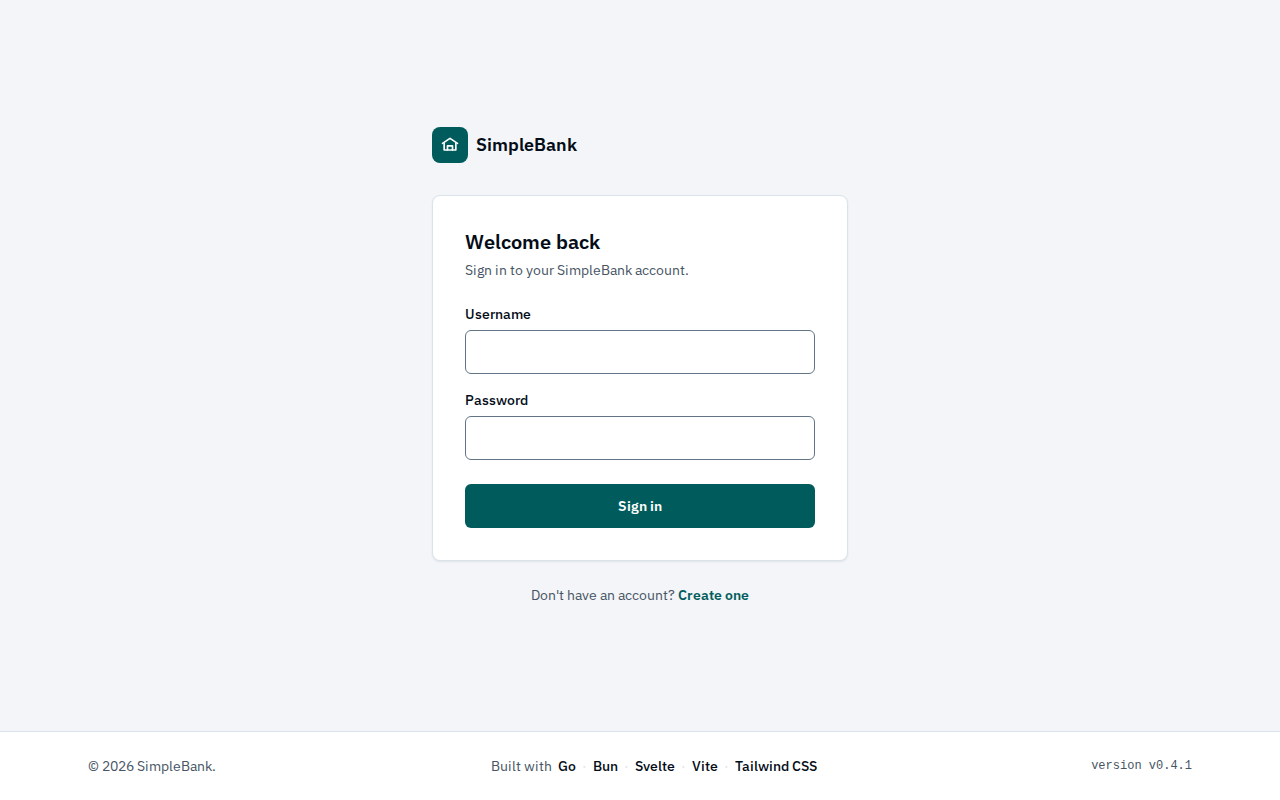
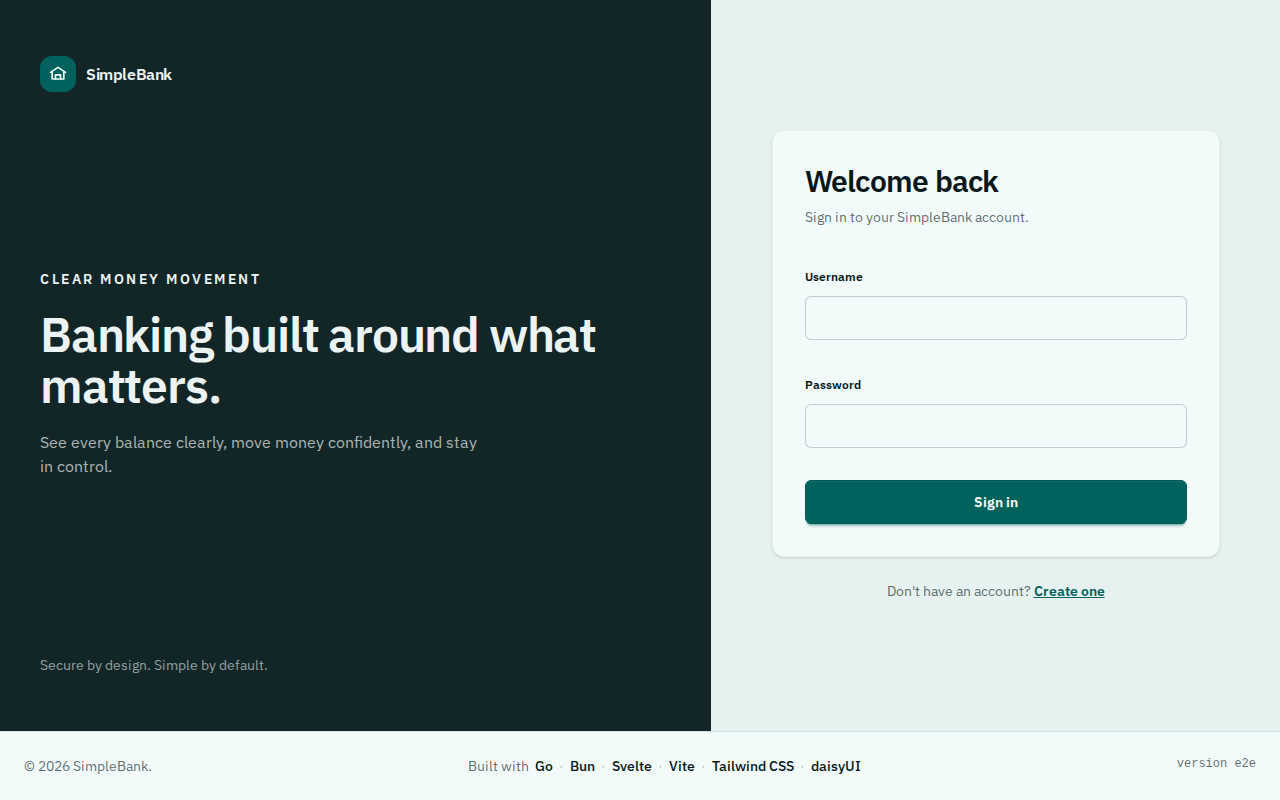
docs: refresh frontend guides and screenshots

diff --git a/docs/README.md b/docs/README.md
@@ -8,8 +8,9 @@ implementation plans as historical context for the work they describe.
 
 - [Project README](../README.md): setup, commands, configuration, API, and
   current architecture.
-- [Frontend README](../frontend/README.md): local UI development, build and
-  embedding behavior, and frontend verification.
+- [Frontend README](../frontend/README.md): Svelte, Tailwind CSS, and daisyUI
+  architecture; custom light/dark themes; local UI development; build and
+  embedding behavior; and frontend verification.
 - [Security guide](security.md): implemented controls, production deployment
   checklist, credential migration impact, and known limitations.
 
@@ -22,6 +23,11 @@ The project currently targets Go 1.27 and uses its standard-library `uuid`
 package. Exact Go, Bun, and development-tool versions are pinned in
 [`mise.toml`](../mise.toml) and checksummed in [`mise.lock`](../mise.lock); run
 `mise install` to install them.
+
+The web UI targets Svelte 5, TypeScript 6, Tailwind CSS 4, and daisyUI 5. The
+frontend defines only the custom `simplebank-light` and `simplebank-dark`
+themes, applies the selected theme before Svelte mounts, and stores an explicit
+selection in browser local storage.
 
 ## Architecture Decisions
 

diff --git a/README.md b/README.md
@@ -12,6 +12,12 @@ It covers the full journey: registration with email verification, account
 creation with an optional opening balance, transfers between accounts, and
 per-account transfer history.
 
+The responsive interface uses Tailwind CSS 4 and daisyUI 5 with custom
+`simplebank-light` and `simplebank-dark` themes. A user-selected theme persists
+in the browser; otherwise the app follows the operating-system preference. The
+shared controls retain native semantics, keyboard navigation, visible focus,
+forced-colors support, and screen-reader announcements.
+
 | | |
 |---|---|
 | ![Sign in](docs/images/login.png) | ![Account overview](docs/images/dashboard.png) |
